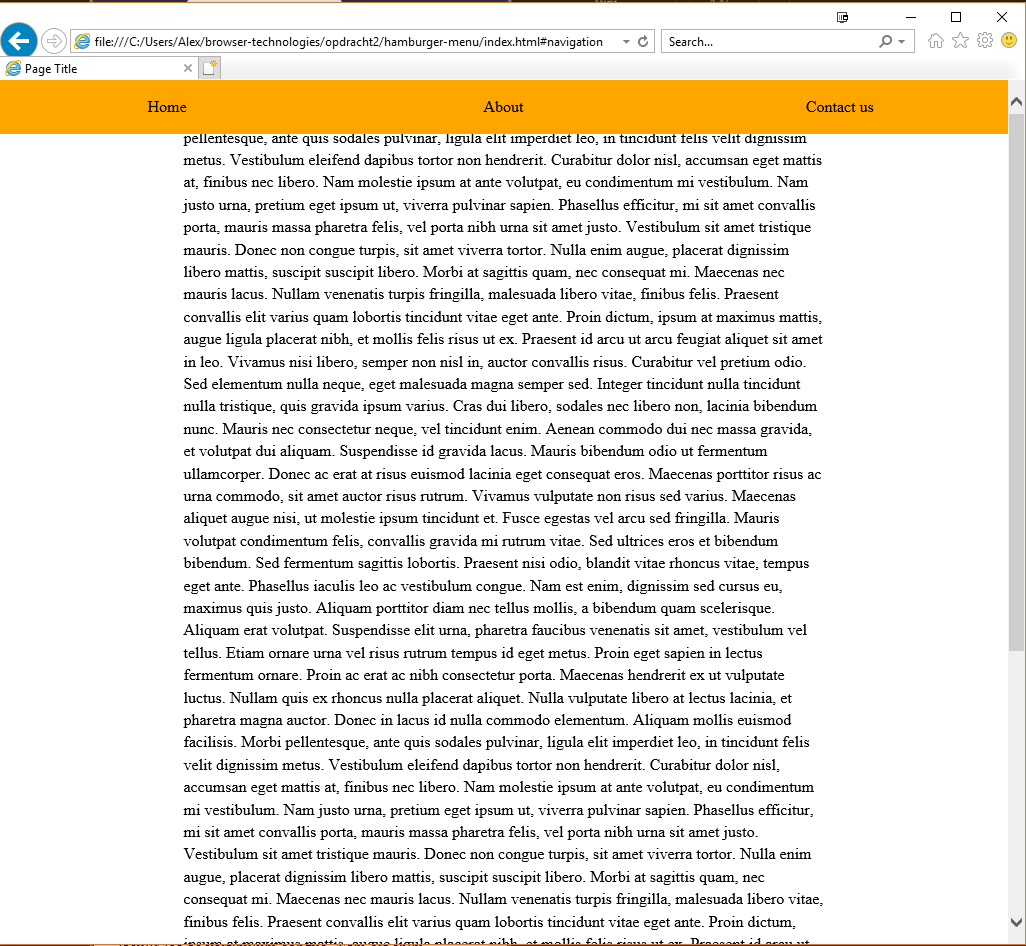
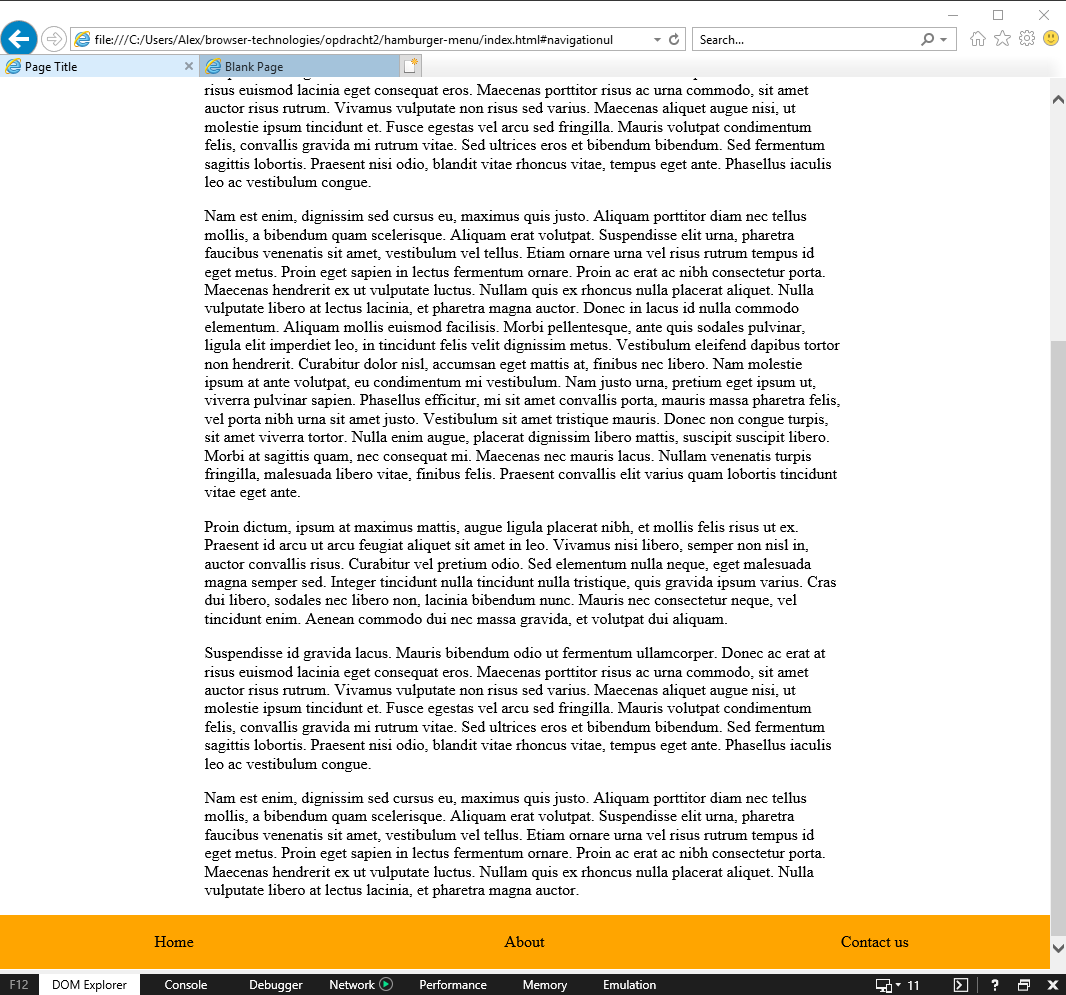
Changed the docs around for hamburger-menu. Also hotfixed the issues i found along the way :)

diff --git a/opdracht2/hamburger-menu/index.html b/opdracht2/hamburger-menu/index.html
@@ -7,12 +7,9 @@
     <meta name="viewport" content="width=device-width, initial-scale=1">
 
     <style>
- 
-        html {
-            padding: 1em;
-            line-height: 1.4em;
+        body {
+            margin: 0;
         }
-
         .linktext {
             display:none;
         }
@@ -20,20 +17,28 @@
         section {
             margin-left: auto;
             margin-right: auto;
+            padding: 0 2em 0 2em; padding: 0 32px 0 32px 0;
+            min-widthh: 320px;
             min-width: 20em;
+            max-width: 640px;
             max-width: 40em;
         }
 
+        .hamburgericon {
+            padding-left: 32px;
+            padding-left: 2em;
+        }
+
         ul {
-            margin: 0;
             padding-left: 0;
+            margin:0;
 
         }
         a {
             background-color: orange;
             display: block;
             width: 100%;
-     
+
             line-height: 25px; line-height: 1.5em;
             text-align: center;
             padding: 15px 0 15px 0;
@@ -43,6 +48,9 @@
 
         li {
             list-style-type: none;
+            margin: 0;
+            padding: 0;
+            display: inline;
         }
 
         a:hover {
@@ -50,7 +58,7 @@
         }
 
         span {
-            width: 16px; width: 1em; 
+            width: 16px; width: 1em;
             background-color: black;
             border-radius: .5px;
             display: block;
@@ -60,10 +68,10 @@
 
         #navigation {
             transition: all .3s ease-in;
-
+            width: 100%;
         }
 
-         .mainnavigation {
+        .mainnavigation {
             zoom: 1;
             filter: alpha(opacity=0);
             opacity: 0;
@@ -77,13 +85,13 @@
                 width: 100%;
             }
 
-            
+
         }
         @media (min-width: 600px) {
-            #hamburgermenu {
+            .dynamichamburger {
                 display: none;
             }
-            
+
             .mainnavigation {
                 zoom: 1;
                 filter: alpha(opacity=100);
@@ -92,14 +100,18 @@
             }
 
             ul {
+                display: block; /* will work on IE10 */
                 display: flex;
+                overflow: auto;
                 justify-content: center;
+                -ms-flex-pack: center;
             }
             li {
+                display: block;
                 width: 100%;
+                overflow: auto;
                 border-bottom: 1px;
                 line-height: 25px; line-height: 1.5em;
-                display: inline-block;
                 text-align: center;
             }
 
@@ -107,79 +119,83 @@
     </style>
 </head>
 <body>
-    <div id='hamburgermenu'>
-        <a href='#navigationul' id='burgerlink'>
-            <div class='linktext'>Menu</div>
-                <div class='hamburgericon'>
-                    <span></span>
-                    <span></span>
-                    <span></span>
-                </div>
-            </a>
-    </div>
-    <section id='text'>
-        <p>Donec in lacus id nulla commodo elementum. Aliquam mollis euismod facilisis. Morbi pellentesque, ante quis sodales pulvinar, ligula elit imperdiet leo, in tincidunt felis velit dignissim metus. Vestibulum eleifend dapibus tortor non hendrerit. Curabitur dolor nisl, accumsan eget mattis at, finibus nec libero. Nam molestie ipsum at ante volutpat, eu condimentum mi vestibulum. Nam justo urna, pretium eget ipsum ut, viverra pulvinar sapien. Phasellus efficitur, mi sit amet convallis porta, mauris massa pharetra felis, vel porta nibh urna sit amet justo. Vestibulum sit amet tristique mauris. Donec non congue turpis, sit amet viverra tortor. Nulla enim augue, placerat dignissim libero mattis, suscipit suscipit libero. Morbi at sagittis quam, nec consequat mi. Maecenas nec mauris lacus. Nullam venenatis turpis fringilla, malesuada libero vitae, finibus felis. Praesent convallis elit varius quam lobortis tincidunt vitae eget ante.
-        </p>
-        <p>Proin dictum, ipsum at maximus mattis, augue ligula placerat nibh, et mollis felis risus ut ex. Praesent id arcu ut arcu feugiat aliquet sit amet in leo. Vivamus nisi libero, semper non nisl in, auctor convallis risus. Curabitur vel pretium odio. Sed elementum nulla neque, eget malesuada magna semper sed. Integer tincidunt nulla tincidunt nulla tristique, quis gravida ipsum varius. Cras dui libero, sodales nec libero non, lacinia bibendum nunc. Mauris nec consectetur neque, vel tincidunt enim. Aenean commodo dui nec massa gravida, et volutpat dui aliquam.
-        </p>
-        <p>Suspendisse id gravida lacus. Mauris bibendum odio ut fermentum ullamcorper. Donec ac erat at risus euismod lacinia eget consequat eros. Maecenas porttitor risus ac urna commodo, sit amet auctor risus rutrum. Vivamus vulputate non risus sed varius. Maecenas aliquet augue nisi, ut molestie ipsum tincidunt et. Fusce egestas vel arcu sed fringilla. Mauris volutpat condimentum felis, convallis gravida mi rutrum vitae. Sed ultrices eros et bibendum bibendum. Sed fermentum sagittis lobortis. Praesent nisi odio, blandit vitae rhoncus vitae, tempus eget ante. Phasellus iaculis leo ac vestibulum congue.
-        </p>
-        <p>Nam est enim, dignissim sed cursus eu, maximus quis justo. Aliquam porttitor diam nec tellus mollis, a bibendum quam scelerisque. Aliquam erat volutpat. Suspendisse elit urna, pharetra faucibus venenatis sit amet, vestibulum vel tellus. Etiam ornare urna vel risus rutrum tempus id eget metus. Proin eget sapien in lectus fermentum ornare. Proin ac erat ac nibh consectetur porta. Maecenas hendrerit ex ut vulputate luctus. Nullam quis ex rhoncus nulla placerat aliquet. Nulla vulputate libero at lectus lacinia, et pharetra magna auctor. 
+<div id='hamburgermenu' class="dynamichamburger">
+    <a href='#navigationul' id='burgerlink'>
+        <div class='linktext'>Menu</div>
+        <div class='hamburgericon'>
+            <span></span>
+            <span></span>
+            <span></span>
+        </div>
+    </a>
+</div>
+<section id='text'>
+    <p>Donec in lacus id nulla commodo elementum. Aliquam mollis euismod facilisis. Morbi pellentesque, ante quis sodales pulvinar, ligula elit imperdiet leo, in tincidunt felis velit dignissim metus. Vestibulum eleifend dapibus tortor non hendrerit. Curabitur dolor nisl, accumsan eget mattis at, finibus nec libero. Nam molestie ipsum at ante volutpat, eu condimentum mi vestibulum. Nam justo urna, pretium eget ipsum ut, viverra pulvinar sapien. Phasellus efficitur, mi sit amet convallis porta, mauris massa pharetra felis, vel porta nibh urna sit amet justo. Vestibulum sit amet tristique mauris. Donec non congue turpis, sit amet viverra tortor. Nulla enim augue, placerat dignissim libero mattis, suscipit suscipit libero. Morbi at sagittis quam, nec consequat mi. Maecenas nec mauris lacus. Nullam venenatis turpis fringilla, malesuada libero vitae, finibus felis. Praesent convallis elit varius quam lobortis tincidunt vitae eget ante.
+    </p>
+    <p>Proin dictum, ipsum at maximus mattis, augue ligula placerat nibh, et mollis felis risus ut ex. Praesent id arcu ut arcu feugiat aliquet sit amet in leo. Vivamus nisi libero, semper non nisl in, auctor convallis risus. Curabitur vel pretium odio. Sed elementum nulla neque, eget malesuada magna semper sed. Integer tincidunt nulla tincidunt nulla tristique, quis gravida ipsum varius. Cras dui libero, sodales nec libero non, lacinia bibendum nunc. Mauris nec consectetur neque, vel tincidunt enim. Aenean commodo dui nec massa gravida, et volutpat dui aliquam.
+    </p>
+    <p>Suspendisse id gravida lacus. Mauris bibendum odio ut fermentum ullamcorper. Donec ac erat at risus euismod lacinia eget consequat eros. Maecenas porttitor risus ac urna commodo, sit amet auctor risus rutrum. Vivamus vulputate non risus sed varius. Maecenas aliquet augue nisi, ut molestie ipsum tincidunt et. Fusce egestas vel arcu sed fringilla. Mauris volutpat condimentum felis, convallis gravida mi rutrum vitae. Sed ultrices eros et bibendum bibendum. Sed fermentum sagittis lobortis. Praesent nisi odio, blandit vitae rhoncus vitae, tempus eget ante. Phasellus iaculis leo ac vestibulum congue.
+    </p>
+    <p>Nam est enim, dignissim sed cursus eu, maximus quis justo. Aliquam porttitor diam nec tellus mollis, a bibendum quam scelerisque. Aliquam erat volutpat. Suspendisse elit urna, pharetra faucibus venenatis sit amet, vestibulum vel tellus. Etiam ornare urna vel risus rutrum tempus id eget metus. Proin eget sapien in lectus fermentum ornare. Proin ac erat ac nibh consectetur porta. Maecenas hendrerit ex ut vulputate luctus. Nullam quis ex rhoncus nulla placerat aliquet. Nulla vulputate libero at lectus lacinia, et pharetra magna auctor.
         Donec in lacus id nulla commodo elementum. Aliquam mollis euismod facilisis. Morbi pellentesque, ante quis sodales pulvinar, ligula elit imperdiet leo, in tincidunt felis velit dignissim metus. Vestibulum eleifend dapibus tortor non hendrerit. Curabitur dolor nisl, accumsan eget mattis at, finibus nec libero. Nam molestie ipsum at ante volutpat, eu condimentum mi vestibulum. Nam justo urna, pretium eget ipsum ut, viverra pulvinar sapien. Phasellus efficitur, mi sit amet convallis porta, mauris massa pharetra felis, vel porta nibh urna sit amet justo. Vestibulum sit amet tristique mauris. Donec non congue turpis, sit amet viverra tortor. Nulla enim augue, placerat dignissim libero mattis, suscipit suscipit libero. Morbi at sagittis quam, nec consequat mi. Maecenas nec mauris lacus. Nullam venenatis turpis fringilla, malesuada libero vitae, finibus felis. Praesent convallis elit varius quam lobortis tincidunt vitae eget ante.
-        </p>
-        <p>Proin dictum, ipsum at maximus mattis, augue ligula placerat nibh, et mollis felis risus ut ex. Praesent id arcu ut arcu feugiat aliquet sit amet in leo. Vivamus nisi libero, semper non nisl in, auctor convallis risus. Curabitur vel pretium odio. Sed elementum nulla neque, eget malesuada magna semper sed. Integer tincidunt nulla tincidunt nulla tristique, quis gravida ipsum varius. Cras dui libero, sodales nec libero non, lacinia bibendum nunc. Mauris nec consectetur neque, vel tincidunt enim. Aenean commodo dui nec massa gravida, et volutpat dui aliquam.
-        </p>
-        <p>Suspendisse id gravida lacus. Mauris bibendum odio ut fermentum ullamcorper. Donec ac erat at risus euismod lacinia eget consequat eros. Maecenas porttitor risus ac urna commodo, sit amet auctor risus rutrum. Vivamus vulputate non risus sed varius. Maecenas aliquet augue nisi, ut molestie ipsum tincidunt et. Fusce egestas vel arcu sed fringilla. Mauris volutpat condimentum felis, convallis gravida mi rutrum vitae. Sed ultrices eros et bibendum bibendum. Sed fermentum sagittis lobortis. Praesent nisi odio, blandit vitae rhoncus vitae, tempus eget ante. Phasellus iaculis leo ac vestibulum congue.
-        </p>
-        <p>Nam est enim, dignissim sed cursus eu, maximus quis justo. Aliquam porttitor diam nec tellus mollis, a bibendum quam scelerisque. Aliquam erat volutpat. Suspendisse elit urna, pharetra faucibus venenatis sit amet, vestibulum vel tellus. Etiam ornare urna vel risus rutrum tempus id eget metus. Proin eget sapien in lectus fermentum ornare. Proin ac erat ac nibh consectetur porta. Maecenas hendrerit ex ut vulputate luctus. Nullam quis ex rhoncus nulla placerat aliquet. Nulla vulputate libero at lectus lacinia, et pharetra magna auctor. 
-        </p>
-    </section>
+    </p>
+    <p>Proin dictum, ipsum at maximus mattis, augue ligula placerat nibh, et mollis felis risus ut ex. Praesent id arcu ut arcu feugiat aliquet sit amet in leo. Vivamus nisi libero, semper non nisl in, auctor convallis risus. Curabitur vel pretium odio. Sed elementum nulla neque, eget malesuada magna semper sed. Integer tincidunt nulla tincidunt nulla tristique, quis gravida ipsum varius. Cras dui libero, sodales nec libero non, lacinia bibendum nunc. Mauris nec consectetur neque, vel tincidunt enim. Aenean commodo dui nec massa gravida, et volutpat dui aliquam.
+    </p>
+    <p>Suspendisse id gravida lacus. Mauris bibendum odio ut fermentum ullamcorper. Donec ac erat at risus euismod lacinia eget consequat eros. Maecenas porttitor risus ac urna commodo, sit amet auctor risus rutrum. Vivamus vulputate non risus sed varius. Maecenas aliquet augue nisi, ut molestie ipsum tincidunt et. Fusce egestas vel arcu sed fringilla. Mauris volutpat condimentum felis, convallis gravida mi rutrum vitae. Sed ultrices eros et bibendum bibendum. Sed fermentum sagittis lobortis. Praesent nisi odio, blandit vitae rhoncus vitae, tempus eget ante. Phasellus iaculis leo ac vestibulum congue.
+    </p>
+    <p>Nam est enim, dignissim sed cursus eu, maximus quis justo. Aliquam porttitor diam nec tellus mollis, a bibendum quam scelerisque. Aliquam erat volutpat. Suspendisse elit urna, pharetra faucibus venenatis sit amet, vestibulum vel tellus. Etiam ornare urna vel risus rutrum tempus id eget metus. Proin eget sapien in lectus fermentum ornare. Proin ac erat ac nibh consectetur porta. Maecenas hendrerit ex ut vulputate luctus. Nullam quis ex rhoncus nulla placerat aliquet. Nulla vulputate libero at lectus lacinia, et pharetra magna auctor.
+    </p>
+</section>
 
-    <nav role="navigation" id="navigation" class="mainnavigation">
-        <ul id='navigationul' class='mainnavigation'>
-            <li><a href=''>Home</a></li>
-            <li><a href=''>About</a></li>
-            <li><a href=''>Contact us</a></li>
-        </ul>
-    </nav>
-    <script type="text/javascript">
-        var nav = document.getElementById('navigation')
-        var navul = document.getElementById('navigationul')
-        
-        // As HTML5 does not work in IE9 < and i didn't want to shim, i thought of this pattern
-        // (Also because it's fun to think about these kind of situations.)
-        var navGetsLoaded = nav.childNodes.length != 0 ? true : false 
-        var burgerlink = document.getElementById('burgerlink')
-        var text = document.getElementById('text')
-        var navigationClass = 'mainnavigation'
+<nav role="navigation" id="navigation">
+    <ul id='navigationul'>
+        <li><a href=''>Home</a></li>
+        <li><a href=''>About</a></li>
+        <li><a href=''>Contact us</a></li>
+    </ul>
+</nav>
+<script type="text/javascript">
+    var nav = document.getElementById('navigation')
+    var navul = document.getElementById('navigationul')
 
 
-        var supportsAddEventListener = (burgerlink.addEventListener !== undefined) 
-        var supportsClassList = (nav.classList !== undefined)
-       
-            
-        navGetsLoaded ? nav.parentNode.removeChild(nav) : navul.parentNode.removeChild(navul)
-        navGetsLoaded ? document.body.insertBefore(nav, text) : document.body.insertBefore(navul, text)
-        // 
-        
-        function toggleClass(element, newClass){
-            console.log(element)
-            console.log(element.clasNname)
-            element.className === newClass ? element.className = '' : element.className = newClass
-        } 
-        
+    // As HTML5 does not work in IE9 < and i didn't want to shim, i thought of this pattern
+    // (Also because it's fun to think about these kind of situations.)
+    var navGetsLoaded = nav.childNodes.length != 0 ? true : false
+    var burgerlink = document.getElementById('burgerlink')
 
-        function burgerlinkEvent(event) {
-            toggleClass(nav, navigationClass)
-            toggleClass(navul, navigationClass)
-            event.preventDefault ? event.preventDefault() :  (event.returnValue = false)
-        }
-
-      
-        supportsAddEventListener ? burgerlink.addEventListener("click", burgerlinkEvent) : burgerlink.onclick = burgerlinkEvent
-        
+    var text = document.getElementById('text')
+    var navigationClass = 'mainnavigation'
+    toggleClass(nav, navigationClass)
+    toggleClass(navul, navigationClass)
 
 
-    </script>
+    var supportsAddEventListener = (burgerlink.addEventListener !== undefined)
+    var supportsClassList = (nav.classList !== undefined)
+
+
+    navGetsLoaded ? nav.parentNode.removeChild(nav) : navul.parentNode.removeChild(navul)
+    navGetsLoaded ? document.body.insertBefore(nav, text) : document.body.insertBefore(navul, text)
+    //
+
+    function toggleClass(element, newClass){
+        console.log(element)
+        console.log(element.clasNname)
+        element.className === newClass ? element.className = '' : element.className = newClass
+    }
+
+
+    function burgerlinkEvent(event) {
+        toggleClass(nav, navigationClass)
+        toggleClass(navul, navigationClass)
+        event.preventDefault ? event.preventDefault() :  (event.returnValue = false)
+    }
+
+
+    supportsAddEventListener ? burgerlink.addEventListener("click", burgerlinkEvent) : burgerlink.onclick = burgerlinkEvent
+
+
+
+</script>
 </body>
 </html>

diff --git a/opdracht2/hamburger-menu/README.md b/opdracht2/hamburger-menu/README.md
@@ -19,10 +19,10 @@ For the browsers that have javascript enabled with fetch can get the most enjoya
 ## Baseline
 **Coverage: 100% of the browsers**   
 This is the core functionality of the assignment; when you click on the link, you will be taken to the navbar, which is at the bottom of the page in this scenario.
-Screenshots are from tests on `internet explorer 11`, using the emulator to simulate `internet explorer 5`. I'll be making the assumption that if it works on this, it will work on basically anything.
+Screenshots are from tests on `internet explorer 11`, using the emulator to emulate `internet explorer 5`. I'll be making the assumption that if it works on this, it will work on basically anything.
 
 ### Stage 1
-![image](/opdracht2/hamburger-menu/img/baseline.PNG)
+![image](img/baseline.PNG)
 
 ### Stage 2 (link has been clicked)
 ![image](img/baseline-hamburger.PNG)
@@ -51,11 +51,33 @@ The nav is also styled differently for small screens, putting the links undernea
 
 ## Enjoyable
 **Coverage: about 96%**
-With javascript enabled, I use position: absolute to position the navbar beneath the hamburger menu on click, by swapping out element classes. I use the fairly new [classlist.toggle](https://caniuse.com/#feat=classlist) in combination with [.addeventlistener](https://caniuse.com/#feat=addeventlistener). In the case these aren't supported, the browser will fallback on the acceptable behaviour
+For this i'm doing quite a bit of feature detection to ensure all browsers can handle the script.
+For example i'm using
+```javascript
+ var supportsAddEventListener = (burgerlink.addEventListener !== undefined)
+```
+To check if `addEventListener` is accepted, if not i'll use `element.onclick` as a supplement.
+Further a-more i've implemented that function toggleClass
+```javascript
+ function toggleClass(element, newClass){
+        console.log(element)
+        console.log(element.clasNname)
+        element.className === newClass ? element.className = '' : element.className = newClass
+    }
+```
+Which simulates the `classlist` function `toggle`, but works for any browser.   
+Last but not least i'm using 
+```javascript 
+ var navGetsLoaded = nav.childNodes.length != 0 ? true : false
+```
+as a way to detect if the nav is being filled (which implies this html 5 tag is supported). If it isn't, i'm using the UL 
+instead. This was chosen over using a div or something, because i want to deliver semantic HTML if the browser
+supports it :)
+
 ![image](img/enjoyable.PNG)
 
 ## Feedback
 - [x] I'm working against the flow of my own HTML allot, which causes bugs like the nav sliding over the content
 - [x] Text isn't semantic, no `<p>`'s
 - [x] Not using feauture detection everywhere which causes the JS to break on older browsers
-- [x] Style the A instead of the LI so koos won't lose his mind next review
+- [x] Style the A instead of the LI so stijn won't lose his mind next review
